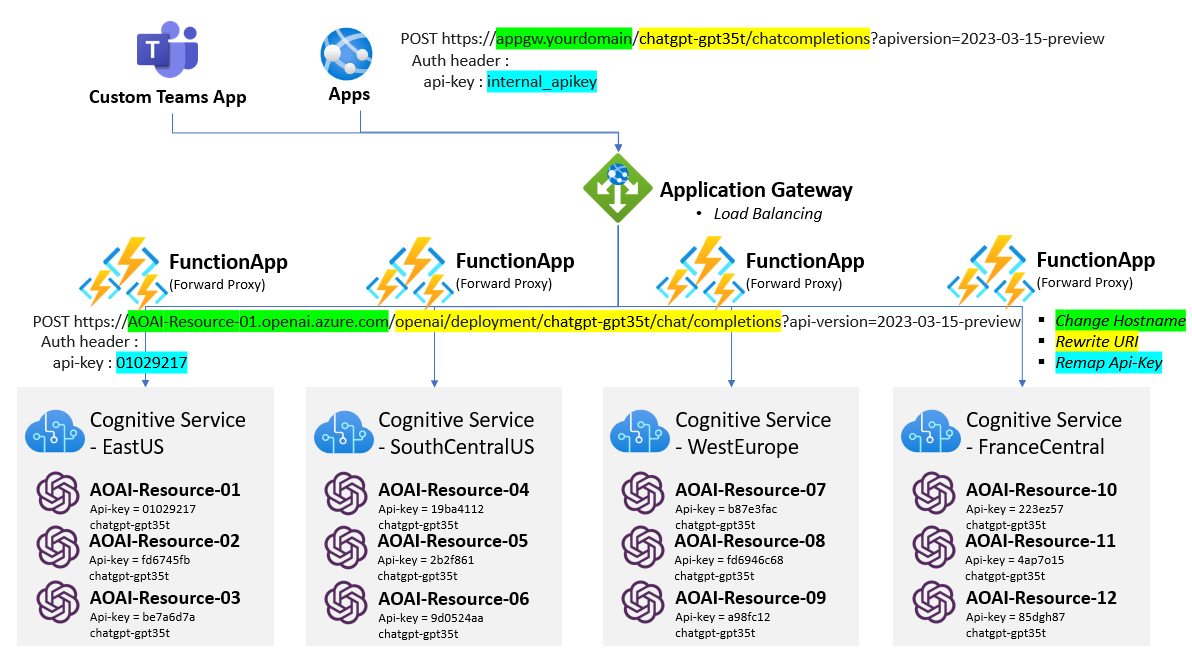
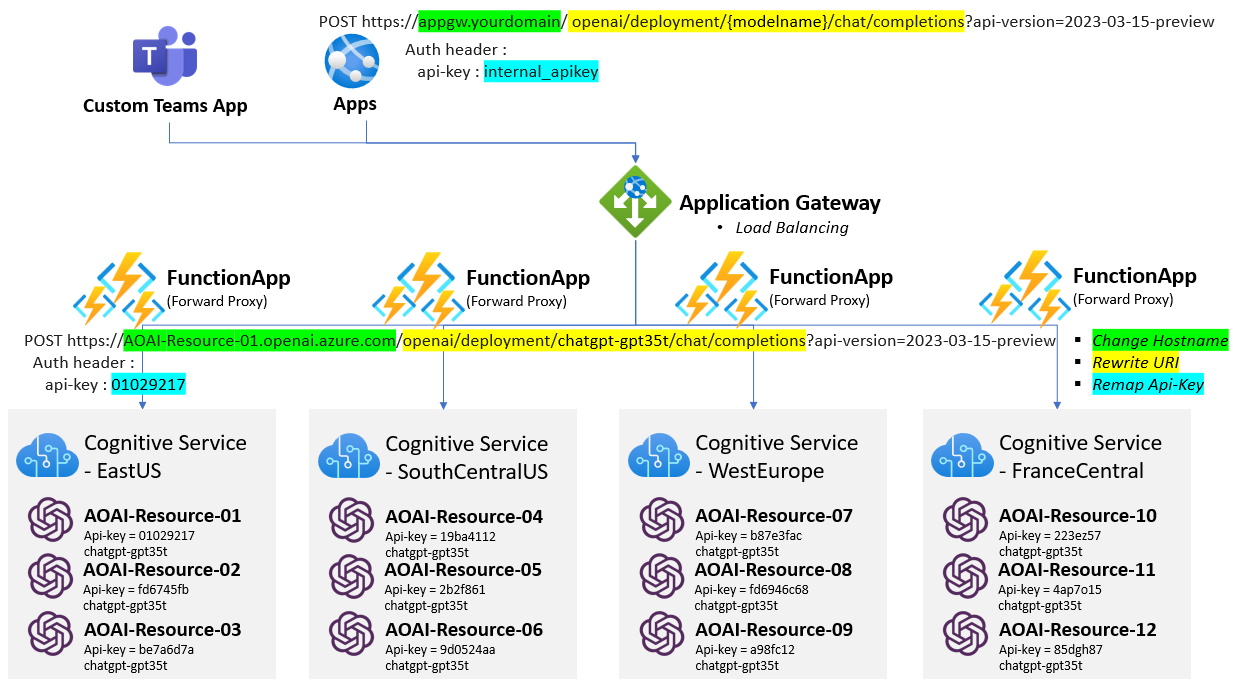
support Azure OpenAI Node.js Library
support Azure OpenAI Node.js Library

diff --git a/FwdProxy/index.js b/FwdProxy/index.js
@@ -1,7 +1,6 @@
 require('dotenv').config();  
 const https = require('https');
 const newhostname = process.env.AOAI_HOSTNAME;
-const uriPath = process.env.AOAI_URIPATH;
 const apiKey = process.env.AOAI_OUTAPIKEY;
 const inapiKey = process.env.AOAI_INAPIKEY;
   
@@ -9,6 +8,8 @@ module.exports = async function (context, req) {
   return new Promise((resolve, reject) => {      
     try{
       const modelname = context.bindingData.modelname;
+      const openai = context.bindingData.openai;
+      const deployments = context.bindingData.deployments;
       var apiname = context.bindingData.apiname;
       if (req.method === 'POST') {
         if (req.headers['api-key'] != inapiKey){
@@ -16,10 +17,11 @@ module.exports = async function (context, req) {
         }
         const bodyinput = (req.body && req.body.input);
         const userid = (req.body && req.body.user);
-        const apiversion = (req.query.apiversion);
+        const apiversion = (req.query['api-version']);
         if (apiname === 'chatcompletions') //GPT3.5_4 URI has one additional /chat/ for dialog bases
           apiname = 'chat/completions';
-        const newPath = uriPath + modelname + '/' + apiname + '?' + 'api-version=' + apiversion;
+        
+        const newPath =  '/' + openai + '/' + deployments + '/' + modelname + '/' + apiname + '?' + 'api-version=' + apiversion;
         const postData = JSON.stringify(req.body);
         const options = {  
             hostname: newhostname,  

diff --git a/README.md b/README.md
@@ -65,7 +65,6 @@ To comply with the [Azure OpenAI Code of Conduct and Terms of Use](https://learn
 2. After Function App is created, Left blade > Configuration > Add Applilcation Settings > **Save**
 ```javascript    
     AOAI_HOSTNAME = {your AOAI resource domain}.openai.azure.com
-    AOAI_URIPATH = /openai/deployments/
     AOAI_INAPIKEY = {your internal apiKey for authenticated user}
     AOAI_OUTAPIKEY = {actual AOAI apikey}
 ```
@@ -73,7 +72,7 @@ To comply with the [Azure OpenAI Code of Conduct and Terms of Use](https://learn
 
 3. Left blade > Health check > add path > **Save**
 ```javascript  
-/api/FwdProxy/health/check
+/api/FwdProxy/openai/deployments/health/check
 ```
 ![funchealth](https://github.com/denlai-mshk/aoai-fwdproxy-funcapp-private/blob/main/screenshots/funchealth.png)
 
@@ -93,9 +92,10 @@ git clone https://github.com/denlai-mshk/aoai-fwdproxy-funcapp.git
 ## Application Gateway Configuration
 1. [Create AppGW by Portal](https://learn.microsoft.com/en-us/azure/application-gateway/quick-create-portal)
 2. [Backend pool and Backend setting](https://learn.microsoft.com/en-us/azure/application-gateway/create-ssl-portal)
-3. You have to create 1 Rule bind with 1 Listener, 1 Backend pool and 1 Backend setting, the backend setting bind with 1 Health probe
+3. You have to create 1 Routing rule bind with 1 Listener, 1 Backend pool and 1 Backend setting, the backend setting bind with 1 Health probe
 4. Add multiple Function Apps into Backend pool 
-5. AppGW inbound and outbound are 443 port for TLS/SSL
+5. Add 1 rewrite ruleset (chatcompletion_100/otherapi_101/healthcheck_102) bind with Routing rule
+6. AppGW inbound and outbound are 443 port for TLS/SSL
 
 ![backendpool](https://github.com/denlai-mshk/aoai-fwdproxy-funcapp-private/blob/main/screenshots/backendpool.png)
 
@@ -107,6 +107,64 @@ git clone https://github.com/denlai-mshk/aoai-fwdproxy-funcapp.git
 
 ![Listener](https://github.com/denlai-mshk/aoai-fwdproxy-funcapp-private/blob/main/screenshots/listener.png)
 
+![rewrite000](https://github.com/denlai-mshk/aoai-fwdproxy-funcapp-private/blob/main/screenshots/rewrite000.png)
+
+![rewrite100](https://github.com/denlai-mshk/aoai-fwdproxy-funcapp-private/blob/main/screenshots/rewrite100.png)
+
+![rewrite101](https://github.com/denlai-mshk/aoai-fwdproxy-funcapp-private/blob/main/screenshots/rewrite101.png)
+
+![rewrite102](https://github.com/denlai-mshk/aoai-fwdproxy-funcapp-private/blob/main/screenshots/rewrite102.png)
+
+- **chatcompletion(100)**
+  ```javascript  
+  if (server variable = uri_path) 
+  equal
+  /openai/deployments/(.*)/chat/completions
+
+  and if (server variable = request_query) 
+  equal
+  api-version=(.*)
+
+  then
+  rewrite type = URL
+  action type = Set
+  Components = Both URL path and URL query string
+  URL path value = /api/FwdProxy/openai/deployments/{var_uri_path_1}/chatcompletions
+  URL query string value = api-version={var_request_query_1}
+  ```
+- **otherapi(101)**
+  ```javascript  
+  if (server variable = uri_path) 
+  equal
+  /openai/deployments/(.*)
+
+  and if (server variable = request_query) 
+  equal
+  api-version=(.*)
+
+  then
+  rewrite type = URL
+  action type = Set
+  Components = Both URL path and URL query string
+  URL path value = /api/FwdProxy/openai/deployments/{var_uri_path_1}
+  URL query string value = api-version={var_request_query_1}
+  ```
+- **healthcheck(102)**
+  ```javascript  
+  if (server variable = uri_path) 
+  equal
+  /openai/deployments/health/check
+
+  and if (server variable = request_query) 
+  equal
+  api-version=(.*)
+
+  then
+  rewrite type = URL
+  action type = Set
+  Components = URL path
+  URL path value = /api/FwdProxy/openai/deployments/health/check
+  ```
 ## How to test with PostMan
 Well-known API tester Postman released OpenAI API profile for free. Get that [over here](https://www.postman.com/devrel/workspace/openai/documentation/13183464-90abb798-cb85-43cb-ba3a-ae7941e968da)
 
